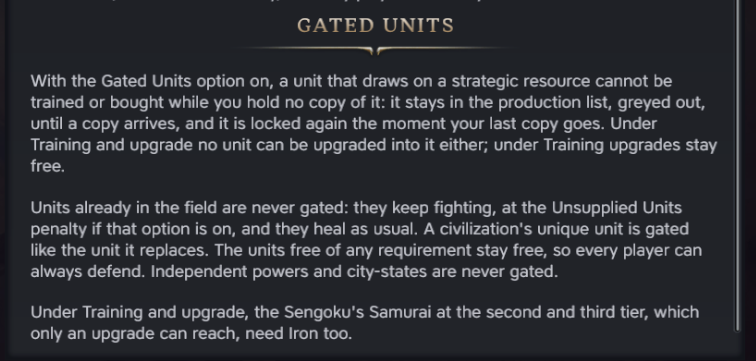
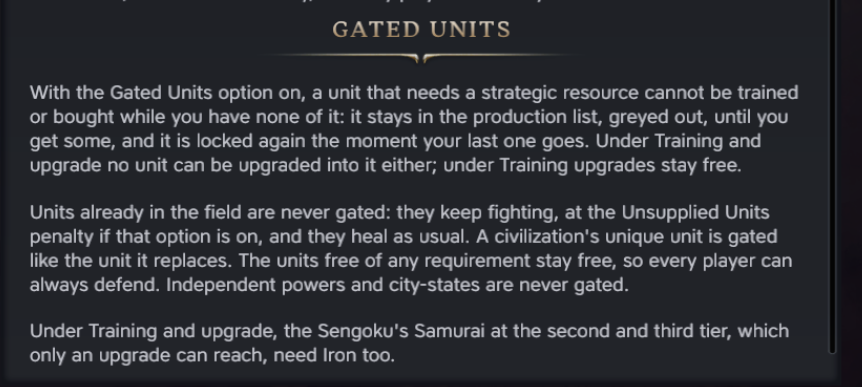
verification: the clean capture games, the release screenshots and the notes for the pill and the tooltip
Three capture games with every other mod off, as the owner asked for the release images: the English screenshots
in docs/screenshots come from the third, with the red pill, the rewritten chapters and the callouts. The phase 15
rows record the two earlier looks of the list line and that the item tooltip could not be opened from script. The
compatibility notes list the ProductionTooltip registration and the pill on the panel.

Watched: everything the rows say, except the tooltip line.

Changed region(s): [[0.0304, 0.0, 1.0, 0.9446], [0.3347, 0.0305, 0.6389, 0.1524]]

diff --git a/docs/verification-runs.md b/docs/verification-runs.md
@@ -456,17 +456,19 @@ in the probe games; the texts from the production chooser's items, the unit pane
 tooltip, the `tutorial-callout` element and the Civilopedia's page; the screenshots in `screenshots/`. The tutorial
 level was set to 2 for the callout rows and put back to 0 before each `lab stop`. The game's UI was never reloaded in
 place: the one attempt (`tower-bench deploy`, game 3) ended the game process within seconds, as phase 10 had recorded
-for a reload issued from the page, and that game was started again.
+for a reload issued from the page, and that game was started again. The English screenshots in `screenshots/` come
+from the three capture games (`p15-ui-clean-*`), every other mod switched off in the registry (backed up and put back
+byte for byte), as the owner asked for the release images; the Japanese ones are evidence from game 2, the usual set on.
 
 | Run | What was done | What was seen | Status |
 | --- | --- | --- | --- |
 | `p15-gate-load` (game 0, Antiquity, Training, Rome) | The first start of the build | Did not load in 360 s. `Database.log`: `UNIQUE constraint failed: CivilopediaPageChapterParagraphs` on `UNITS/UNIT_CHARIOT/SR_SUPPLY` from `sr-antiquity-gate-training.xml`; `Modding.log`: the gate group rolled back, "Failed to apply enabled components". The gate line sat in the 1.0 chapter beside the level line. Fixed: the gate line has its own chapter `SR_LOCK`, and `tests/data.mjs` refuses two files that load together sharing a paragraph key (it fails on the old data with this key) | watched (fixed) |
 | `p15-gate-antiquity` (game 1, Antiquity, Training, Rome, English) | The groups and the data; the capital founded; techs to Iron Working; no Iron | Groups `antiquity`, `antiquity-standard`, `antiquity-curve`, `antiquity-gate-training`, `game`; the six parameters as written (upgrading 0, healing 0); the column on 22 units. Legion and Horseman: build and purchase refused, the query's bare entries rewritten (`InsufficientFunds`, one empty reason); Warrior, Chariot and Legion tier 1 obsolete by the game's rule | watched |
-| `p15-ui-production` (game 1) | The production list | Horseman and Legion listed, greyed (`data-disabled` true), "Locked: no Horses" and "Locked: no Iron" in red after the stats; [screenshot](screenshots/production-locked-en.png). `action-activate` on the Legion item queued nothing | watched |
+| `p15-ui-production` (game 1) | The production list | Horseman and Legion listed, greyed (`data-disabled` true), "Locked: no Horses" and "Locked: no Iron" in red after the stats (the usual set's one-row item; the clean capture below shows the final pill). `action-activate` on the Legion item queued nothing | watched |
 | `p15-gate-relock` (game 1) | One Iron (a pasture tile expanded onto); the Legion queued; the Iron cleared the same turn | Legion build allowed the moment the copy counted, its line "Iron: 1"; refused again the same turn the tile was cleared, no roll needed. The queued Legion stayed in the queue | watched |
 | `p15-gate-queued` (game 1) | The queued Legion through turns without Iron; pushed to 98% with `BuildQueue.addProgress`; one roll | It kept gaining production (4% after one turn, 15% after three, at the penalty's slower rate) and was completed at the roll with no Iron held: the engine checks the column when an item is queued or bought, not when it completes. Recorded as a known limit (README) | watched |
 | `p15-ui-notify` (game 1) | Iron held at a turn start, then cleared; later Horses the same | Turn 4: "Supply lost: Iron" / "Supply lost: no Iron. Units that need it fight at -3 and train slower until you get Iron back. New ones cannot be trained until then."; `UI.log` "supply lost, turn 4: RESOURCE_IRON". Turn 7, with a Chariot: "...Your Chariot fights at -3 and trains slower until you get Horses back. New ones cannot be trained until then." on the train's button; [screenshot](screenshots/notification-gate-en.png) | watched |
-| `p15-ui-panel` (game 1) | The completed Legion selected, no Iron | "Unsupplied: no Iron (-3 Combat Strength, slower to train). New ones cannot be trained." in red under the stats; [screenshot](screenshots/unit-panel-gate-en.png) | watched |
+| `p15-ui-panel` (game 1) | The completed Legion selected, no Iron | "Unsupplied: no Iron (-3 Combat Strength, slower to train). New ones cannot be trained." in red under the stats (small red text then; the final pill is in `p15-ui-clean-3`) | watched |
 | `p15-ui-callout` (game 1, level 2) | The Legion selected; the gate item reset with `TutorialManager.unsee` | The 1.0 callout came first for the same selection, held behind the game's advisor popup (`PopupSequencer`) until that closed; then, on a fresh selection, "LOCKED UNIT" / "Legion needs Iron, and you hold none: it cannot be trained or bought until you get a copy. Every unit that needs a strategic resource is locked this way, and the Civilopedia page Strategic Resources has the whole rule.", CLOSE and TELL ME MORE, the flag `lockedCalloutSeen` written; [screenshot](screenshots/callout-gate-en.png). The two never showed together | watched |
 | `p15-ui-pedia` (game 1) | TELL ME MORE; the Legion's page | The page: the opening sentence ends "Nothing is forbidden unless the Gated Units option is on: see the last chapter."; the chapter "Gated units", three paragraphs, the option and value names filled; [screenshot](screenshots/pedia-concept-gate-en.png). Legion (Tier 2): the 1.0 chapter, then "GATED UNITS: Cannot be trained or bought without a copy of Iron."; [screenshot](screenshots/pedia-unit-gate-en.png) | watched |
 | `p15-ui-resource` (game 1) | `describeResourceSupply` in the game | Iron "Needed to train: Legion.", Horses "Needed to train: Chariot, Horseman.". Not on screen: the plot tooltip does not open from script (phase 13's finding), and no pointer is available | watched (module), not watched (on screen) |
@@ -477,6 +479,9 @@ for a reload issued from the page, and that game was started again.
 | `p15-ui-ja` (game 2, level 2) | The Courser selected; the loss of Horses over a turn; TELL ME MORE | Panel "補給なし: 馬がない(戦闘力-3、訓練が遅くなる)。新たに訓練することはできない。" ([screenshot](screenshots/unit-panel-gate-ja.png)); callout "ロックされたユニット" with the upgrade body ("...アップグレードでこのユニットにすることもできません。...「重要な戦略資源」...") ([screenshot](screenshots/callout-gate-ja.png)); notification "補給喪失: 馬" / "...コーサーは戦闘力-3、訓練も遅くなります。 それまで新たに訓練することはできません。" (a space before the tail after the full stop: fixed, the tail now follows a full-width stop directly, covered by a test); the page's chapter "ロックされるユニット" ([screenshot](screenshots/pedia-concept-gate-ja.png)). The Iron line read "次の訓練に必要: メンアットアームズ、長槍兵。", the units Sengoku's Samurai tiers replace: fixed, the replacement rule now runs before the trainable filter (test) | watched (fixes not yet watched) |
 | `p15-ui-off-overhaul` (game 3, Modern, Off, German, Homo Ludens on) | The groups and the data; the list; a Tank placed; level 2 | No gate group; Homo Ludens' parameters (3 to train, 6 to buy, upgrading 1, healing 1) and its column on 15 units. The first build's index held those columns and would have explained a one-copy lock: changed, the index is on only with the mod's own minimums and full coverage. With that build: Tank and Landship refused by Homo Ludens' rule and absent from the list, Mortar and Field Cannon with the 1.0 "Braucht Salpeter"; panel "Unversorgt: ohne Öl (-3 Kampfstärke, langsamer ausgebildet)"; resource line "Versorgt Einheiten: ..."; no lock callout | watched |
 | `p15-gate-off-independents` (game 3) | The independents and the AIs at turn 10 | 12 independents with 39 Line Infantry and 12 Scouts; each AI 12 to 13 Line Infantry, a Field Cannon, 2 to 3 Cuirassiers (the advanced start) | watched |
+| `p15-ui-clean-1` (capture game 1, Antiquity, Training, Rome, English, every other mod off, build f3b6986) | The game's own production chooser; the Legion placed; level 2; the loss over two turns | The game's own item draws the mod's line on a row of its own under the stats, so the full sentence "Needs Horses: cannot be trained without it." showed, small and red (the owner: too long and hard to read). A text reason put into the rewritten query entry drew as the game's own inline error line ("PROBE: ..." under the name) and set `data-error`; the game's unit tooltip (ui-next `ProductionTooltip`) reads neither. Tooltips opened once from `focus()` plus a synthetic `mouseenter` and never again in that game or the next two, with or without a wrapper on `ProductionTooltip`, so the tooltip line is not watched. The panel, both callouts, the page and the notification as in game 1 | watched (list), not watched (tooltip) |
+| `p15-ui-clean-2` (capture game 2, the same, build f3b6986 with the pill) | The list | The pill in the short form, "Locked: no Horses", on the game's dark advisor tint with light text, dimmed with the disabled item (the owner: greyish, should be red, the same everywhere) | watched |
+| `p15-ui-clean-3` (capture game 3, the same, build 0376636) | The list, the panel, both callouts, both pages, the notification; the new texts | The pill red (#A8201A) with light text on both locked items, readable through the item's 0.8 opacity; [screenshot](screenshots/production-locked-en.png). The panel line as the same red pill, "Unsupplied: no Iron (-3 Combat Strength, slower to train). New ones cannot be trained."; [screenshot](screenshots/unit-panel-gate-en.png). Callouts "Your Legion needs Iron, and you have none: until you get some, ..." and "Legion needs Iron, and you have none: it cannot be trained or bought until you get some. ..."; [screenshot](screenshots/callout-gate-en.png). The page with the rewritten chapters ("What counts as having a resource", "Losing a resource", "Past six", "Gated units"); [screenshot](screenshots/pedia-concept-gate-en.png). The Legion's page: "Needs Iron: with none, -3 Combat Strength and slower to train." and "Cannot be trained or bought without Iron."; [screenshot](screenshots/pedia-unit-gate-en.png). Notification turn 3: "Supply lost: no Iron. Your Legion fights at -3 and trains slower until you get Iron back. New ones cannot be trained until then."; [screenshot](screenshots/notification-gate-en.png) (the train's icon; the text is its tooltip) | watched |
 | `p15-gate-modern` (game 4, Modern, Training, Russian, Homo Ludens, Mod Commons and Readable Tooltips off) | The groups and the data; the list; a Tank placed; level 2 | Groups `modern-gate-training` with the 1.0 ones; the mod's own parameters; the column on 43 units; the index on. Mortar and Field Cannon greyed with "Заблокирован: нет ресурса «Селитра»", once each with Mod Commons off; the Line Infantry free. Panel "Без снабжения: нет ресурса «Нефть» (-3 к боевой мощи, обучение дольше). Новые обучить нельзя." Callout, after the 1.0 one on the same unit: "ЗАБЛОКИРОВАННЫЙ ОТРЯД" / "Отряду «Танк» нужен ресурс «Нефть», а у вас его нет: его нельзя обучить или купить, пока вы не получите единицу ресурса. ..." Resource line (module) "Нужен для обучения: Дредноут, Линкор, Сухопутный корабль и ещё 1." | watched |
 | `p15-ui-notify-ru` (game 4) | Niter held at a turn start, then cleared, no Niter unit in the field | Turn 3: "Снабжение потеряно: Селитра" / "Снабжение потеряно: нет ресурса «Селитра». Пока вы снова не получите ресурс «Селитра», нуждающиеся в нём отряды получают -3 к боевой мощи и обучаются дольше. До тех пор новые обучить нельзя." | watched |
 | `p15-gate-reload` (soak `sr-gate-reload`, `devtools/soak/sr-gate-reload-game.js`, the game 1 save `SOAK-SR-GATE-G1` loaded from the main menu, every other mod off) | After the load: the data, the Legion's lock, the list item, the panel; one Iron; the clear; a roll | Turn 10 as saved: the Training groups' parameters and 22 columns; Legion and Horseman refused; the item greyed with the full sentence "Needs Iron: cannot be trained without it." (the game's own chooser has room for it); the panel line with its tail. One Iron: build and purchase allowed, "Needs Iron (you have 1)."; cleared: refused the same turn; after the roll still refused. 3 of 3 checks passed; no death in the 60 s | watched |

diff --git a/docs/compatibility.md b/docs/compatibility.md
@@ -26,9 +26,10 @@ Everything a conflict could come through. If another mod touches none of these, 
 | Combat preview | One `EFFECT_ADJUST_UNIT_STRENGTH_MODIFIER` of 0 per penalty and per curve step on `COLLECTION_PLAYER_COMBAT` (`SR_PREVIEW_` ids), each with a `Preview` string, so the preview lists the line. They change no strength. |
 | Civilopedia (game scope) | Adds a page in Game Concepts (`CivilopediaPages` `SR_STRATEGIC_RESOURCES`, group `COMBAT`, its own layout `SR_CONCEPT` and chapters, two `CivilopediaPageSearchTerms`), one chapter `SR_SUPPLY` on the base `Unit` layout, and `CivilopediaPageChapterParagraphs` rows for that chapter on gated units' pages. Changes no base row. |
 | Players' off-map resources | Gains and drops one `RESOURCE_CRABS` per major player at every turn start (`gainOffMapResource`, `removeOffMapResource`). |
-| Unit panel | `Controls.decorate("unit-actions")`: wraps the panel instance's `setupUnitInfo` and adds one element under `.unit-actions__stats_container`. |
+| Unit panel | `Controls.decorate("unit-actions")`: wraps the panel instance's `setupUnitInfo` and adds one element under `.unit-actions__stats_container`, the same status pill as the production item (1.1). |
 | City unit queries | With Gated Units on, wraps `Game.CityOperations.canStartQuery` and `Game.CityCommands.canStartQuery` (own properties of those objects) for the local player's unit queries only: an entry the engine answers with a bare refusal for a unit the gate locks is rewritten into the shape the chooser keeps (`InsufficientFunds`, one empty reason), so the unit stays listed, greyed. Other players' queries and other query kinds pass through untouched; activating the item still asks the engine, which refuses. |
-| Production list items | `ComponentRegistry` entry `ProductionModInfo` (the game's empty slot for mods on each production item): registered again at the priority already there, rendering the previous factory first, then one element of its own. |
+| Production list items | `ComponentRegistry` entry `ProductionModInfo` (the game's empty slot for mods on each production item): registered again at the priority already there, rendering the previous factory first, then one element of its own, a status pill in the game's pill shape (1.1). |
+| Production item tooltips (1.1) | `ComponentRegistry` entry `ProductionTooltip` (the game's hover tooltip on each production item): registered again at the priority already there; for a unit the mod has a line for, the `description` prop handed to the previous factory gains the mod's sentence on a new line, in the game's `[STYLE:text-negative]` while the unit is short. Every other tooltip passes through untouched. Not yet watched in a game: tooltips could not be opened from script (phase 15). |
 | Text drawn by `Stylize` | `ComponentRegistry` entry `Stylize`: registered again at the priority already there, passing every prop through; only when `text` is a strategic resource's `Tooltip` key is the text composed with one line added. |
 | Notifications | Adds one notification type, `NOTIFICATION_SR_SUPPLY_LOST` (`Types`, `Notifications`, `NotificationSounds` rows, game scope), and an `IconDefinitions` row for it pointing at the game's `ntf_trade_res_lost` image (`UpdateIcons`). Raises it for the local player with `Game.Notifications.send` at a turn start after a loss. Registers no handler: the train's default handler draws it. |
 | Tutorial manager | Adds two items, `tower_sr_unsupplied_first` and `tower_sr_locked_first` (the lock, raised on `UnitSelectionChanged` and `CitySelectionChanged`), to the game's `TutorialManager` (`add`, then `process("tower strategic resources items")`) at level 2, raised on `UnitSelectionChanged`. Adds no item bank of the game's and changes none of its items. |
